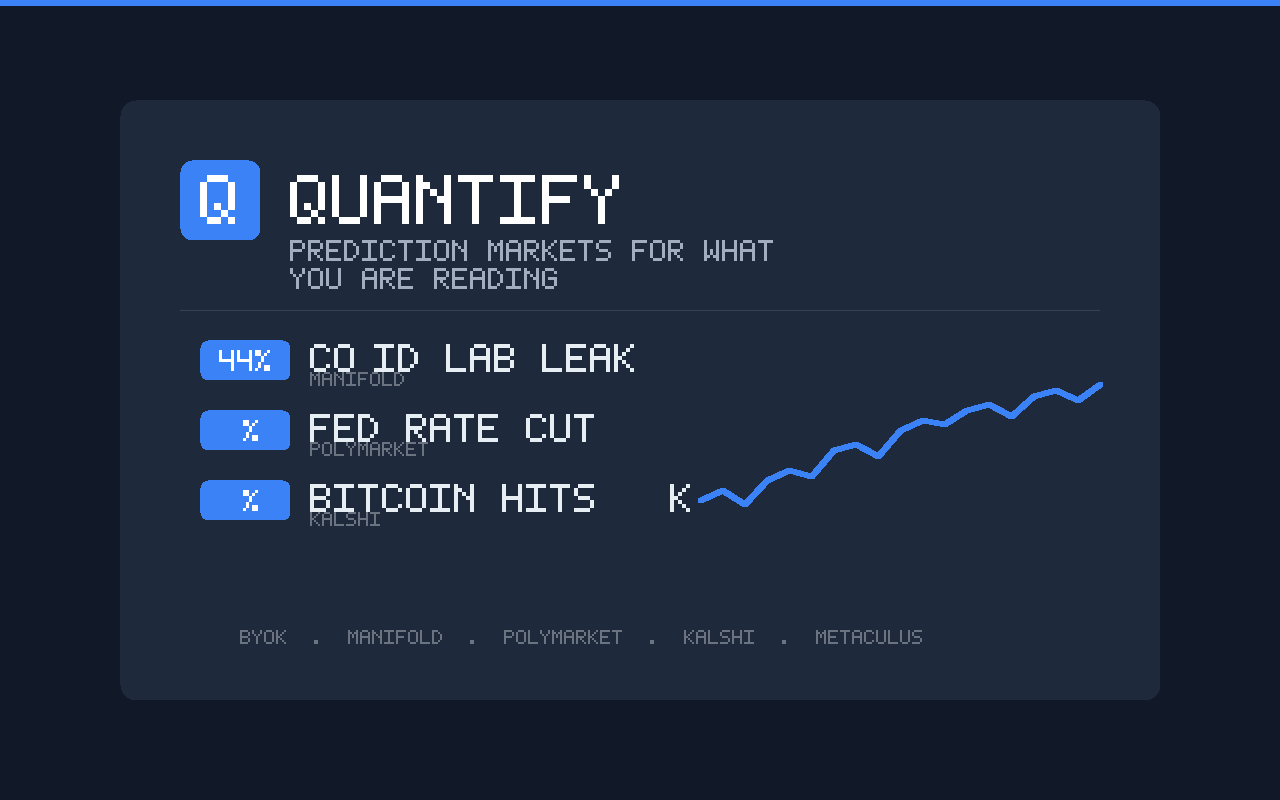
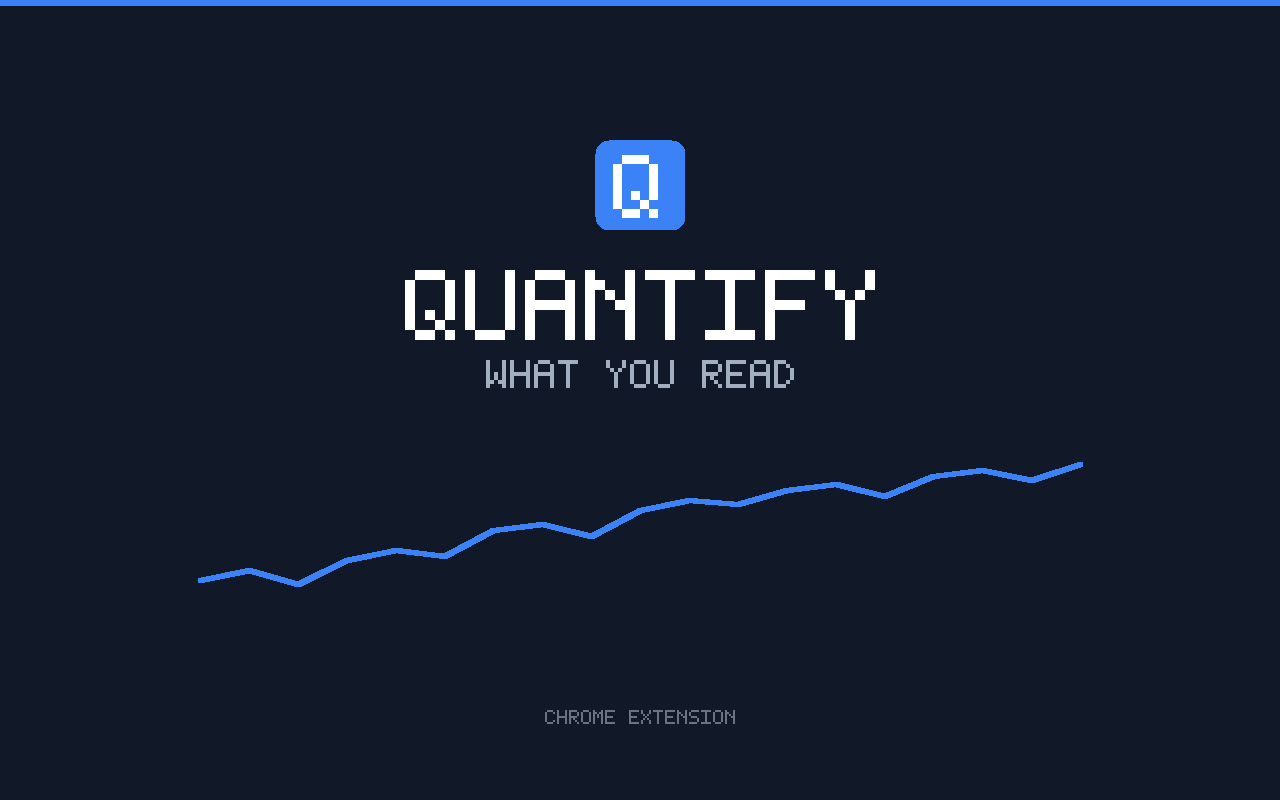
Simplify main promo image to match minimal style

diff --git a/store/generate-promo.js b/store/generate-promo.js
@@ -444,56 +444,32 @@ function generateScreenshot() {
   // Background: dark blue-gray
   fillRect(buf, W, 0, 0, W, H, 17, 24, 39);
 
-  // Accent gradient band at top
-  for (let y = 0; y < 6; y++) {
-    fillRect(buf, W, 0, y, W, 1, 59, 130, 246);
-  }
+  // Accent line at top
+  fillRect(buf, W, 0, 0, W, 6, 59, 130, 246);
 
-  // Main card
-  fillRoundedRect(buf, W, 120, 100, 1040, 600, 16, 30, 41, 59);
+  // "Q" logo
+  const logoSize = 90;
+  const logoX = Math.round((W - logoSize) / 2);
+  fillRoundedRect(buf, W, logoX, 140, logoSize, logoSize, 14, 59, 130, 246);
+  drawText(buf, W, 'Q', logoX + 18, 155, 9, 255, 255, 255);
 
-  // "Q" logo mark
-  fillRoundedRect(buf, W, 180, 160, 80, 80, 12, 59, 130, 246);
-  drawText(buf, W, 'Q', 200, 175, 7, 255, 255, 255);
+  // Title: QUANTIFY
+  const titleScale = 10;
+  const titleW = measureText('QUANTIFY', titleScale);
+  drawText(buf, W, 'QUANTIFY', Math.round((W - titleW) / 2), 270, titleScale, 255, 255, 255);
 
-  // Title
-  drawText(buf, W, 'QUANTIFY', 290, 175, 7, 255, 255, 255);
+  // Tagline: WHAT YOU READ
+  const tagScale = 4;
+  const tagW = measureText('WHAT YOU READ', tagScale);
+  drawText(buf, W, 'WHAT YOU READ', Math.round((W - tagW) / 2), 360, tagScale, 160, 174, 192);
 
-  // Subtitle
-  drawText(buf, W, 'PREDICTION MARKETS FOR WHAT', 290, 240, 3, 160, 174, 192);
-  drawText(buf, W, 'YOU ARE READING', 290, 268, 3, 160, 174, 192);
+  // Chart
+  drawChart(buf, W, 200, 440, 880, 200, 59, 130, 246);
 
-  // Divider
-  fillRect(buf, W, 180, 310, 920, 1, 55, 65, 81);
-
-  // Market examples
-  const markets = [
-    { title: 'COVID LAB LEAK', platform: 'MANIFOLD', pct: '44%' },
-    { title: 'FED RATE CUT', platform: 'POLYMARKET', pct: '67%' },
-    { title: 'BITCOIN HITS 200K', platform: 'KALSHI', pct: '23%' },
-  ];
-
-  let my = 340;
-  for (const m of markets) {
-    // Probability pill
-    fillRoundedRect(buf, W, 200, my, 90, 40, 8, 59, 130, 246);
-    const pctW = measureText(m.pct, 3);
-    drawText(buf, W, m.pct, 200 + 45 - Math.round(pctW / 2), my + 10, 3, 255, 255, 255);
-
-    // Market title
-    drawText(buf, W, m.title, 310, my + 4, 4, 230, 237, 243);
-
-    // Platform label
-    drawText(buf, W, m.platform, 310, my + 32, 2, 107, 114, 128);
-
-    my += 70;
-  }
-
-  // Chart in bottom-right area
-  drawChart(buf, W, 700, 360, 400, 200, 59, 130, 246);
-
-  // Footer text
-  drawText(buf, W, 'BYOK  .  MANIFOLD  .  POLYMARKET  .  KALSHI  .  METACULUS', 240, 630, 2, 107, 114, 128);
+  // Footer
+  const footScale = 2;
+  const footW = measureText('CHROME EXTENSION', footScale);
+  drawText(buf, W, 'CHROME EXTENSION', Math.round((W - footW) / 2), 710, footScale, 107, 114, 128);
 
   return createPNG(W, H, buf);
 }
